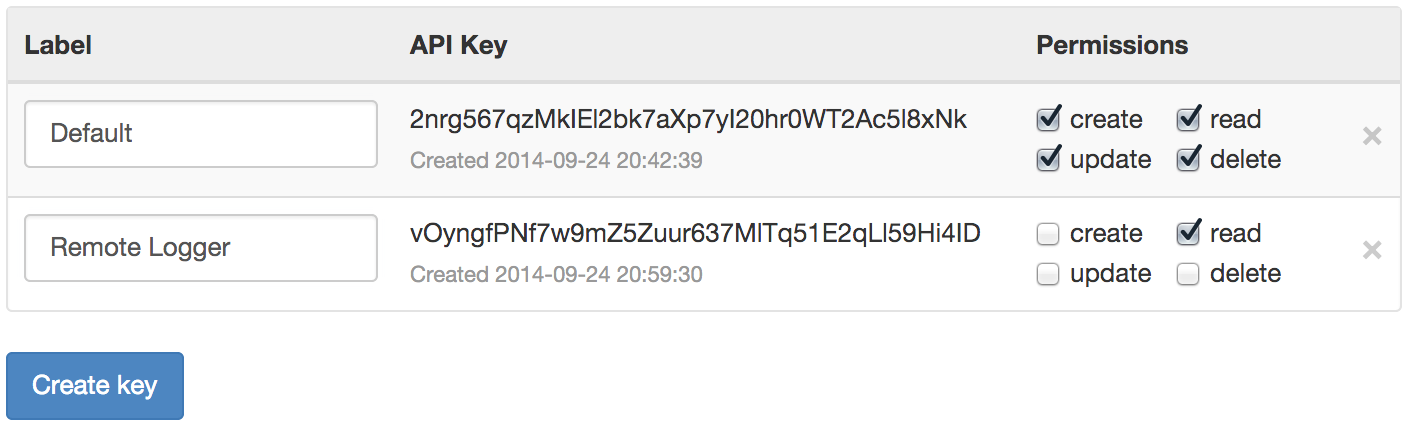
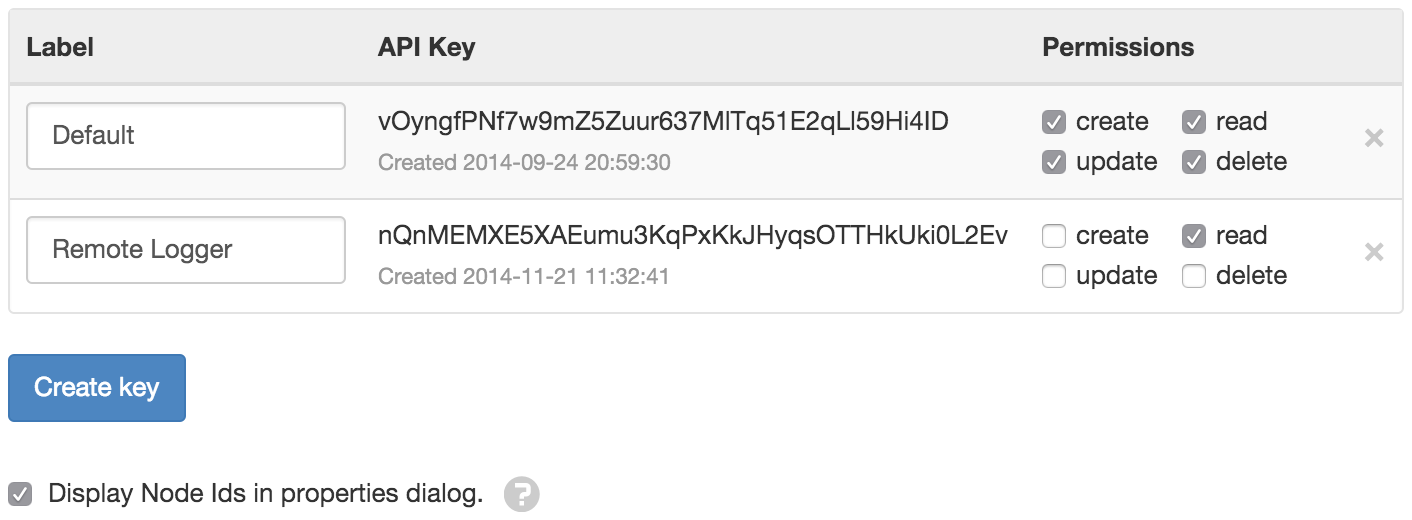
update user prefs

diff --git a/source/topics/user_preferences/index.rst b/source/topics/user_preferences/index.rst
@@ -87,6 +87,9 @@ API keys are used to authenticate eagle.io :ref:`HTTP API <api>` requests.
 The API keys section allows you to create, delete or modify the permissions for API keys associated with your user account.
 You can have multiple API keys active at once. 
 
+API resource requests are always limited to the users Workspace and Account permissions. 
+Individual API key's must be assigned permissions which can be used to further restrict the actions an API request can perform.
+
 .. raw:: latex
 
     \vspace{-10pt}
@@ -103,10 +106,6 @@ You can have multiple API keys active at once.
 	| 
 
 	.. image:: user_profile_apikeys.png
-
-
-API resource requests are always limited to the users Workspace and Account permissions. 
-Individual API key's must be assigned permissions which can be used to further restrict the actions an API request can perform.
 
 The *Display Node Ids in properties dialog* option is useful for retrieving a specific Node Id for use with the HTTP API. The *Node Id* will be shown in the associated Node properties dialog.
 

diff --git a/source/api/best_practices/index.rst b/source/api/best_practices/index.rst
@@ -52,6 +52,15 @@ Responses will always use :ref:`HTTP Status Codes <api-overview-http-status-code
 
     |
 
+Discover Node Ids from the user interface
+-----------------------------------------
+Enable the :ref:`Display Node Ids in properties dialog <user-api-keys>` option to quickly discover Node Id's from the user interface.
+The Node Id will be shown in the associated Node properties dialog.
+
+.. only:: not latex
+
+    |
+
 Use Development Tools for testing
 ----------------------------------
 Use development tools such as `cURL <http://curl.haxx.se>`_ or `Postman <http://www.getpostman.com>`_ to test API requests and responses. We recommend `Postman <http://www.getpostman.com>`_ for its simple to use, powerful user interface.

diff --git a/source/api/resources/nodes.rst b/source/api/resources/nodes.rst
@@ -303,8 +303,7 @@ Example response when ``type`` argument is TREE. Descendants are wrapped in a ``
 
 Get a node
 -------------
-Get a node by its **_id**.
-
+Get a node by its **_id**. 
 
 Arguments
 ~~~~~~~~~
